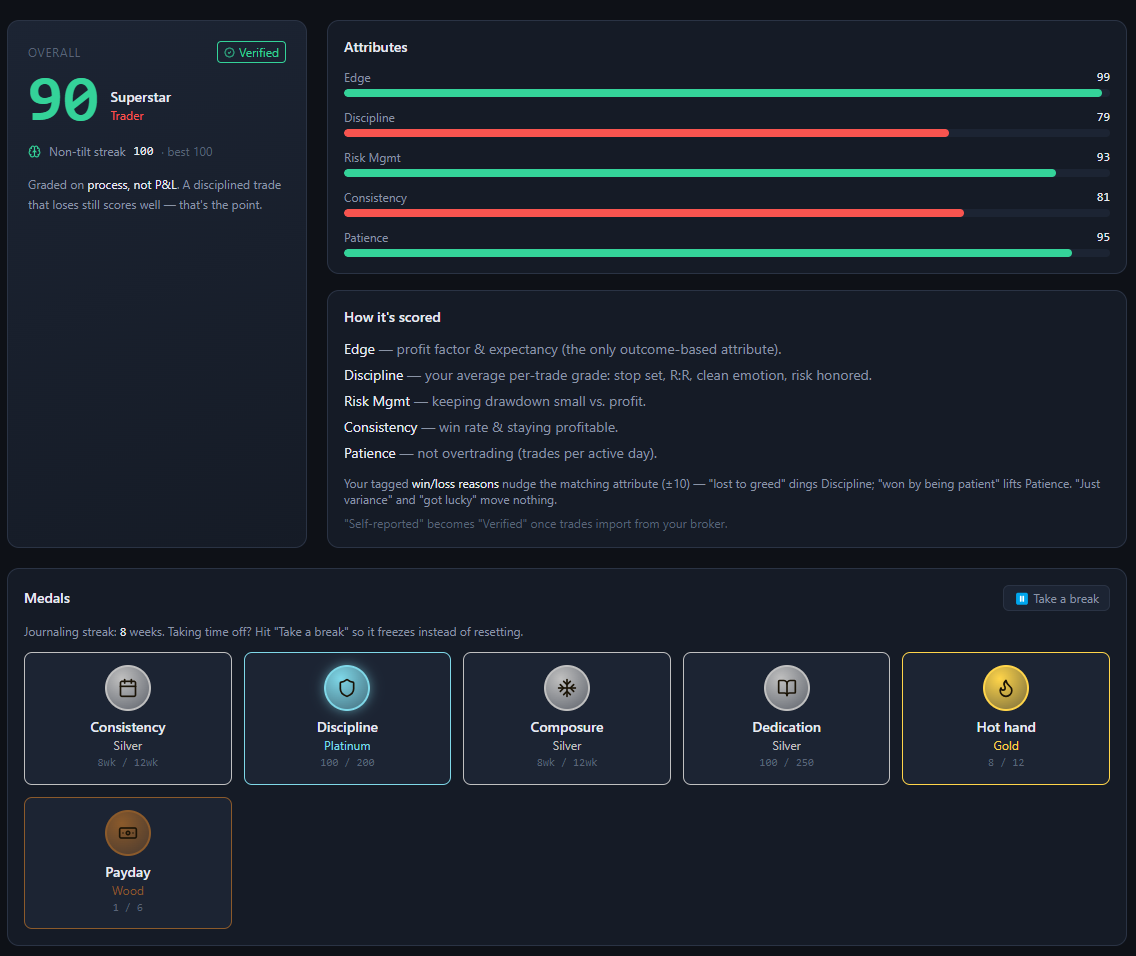
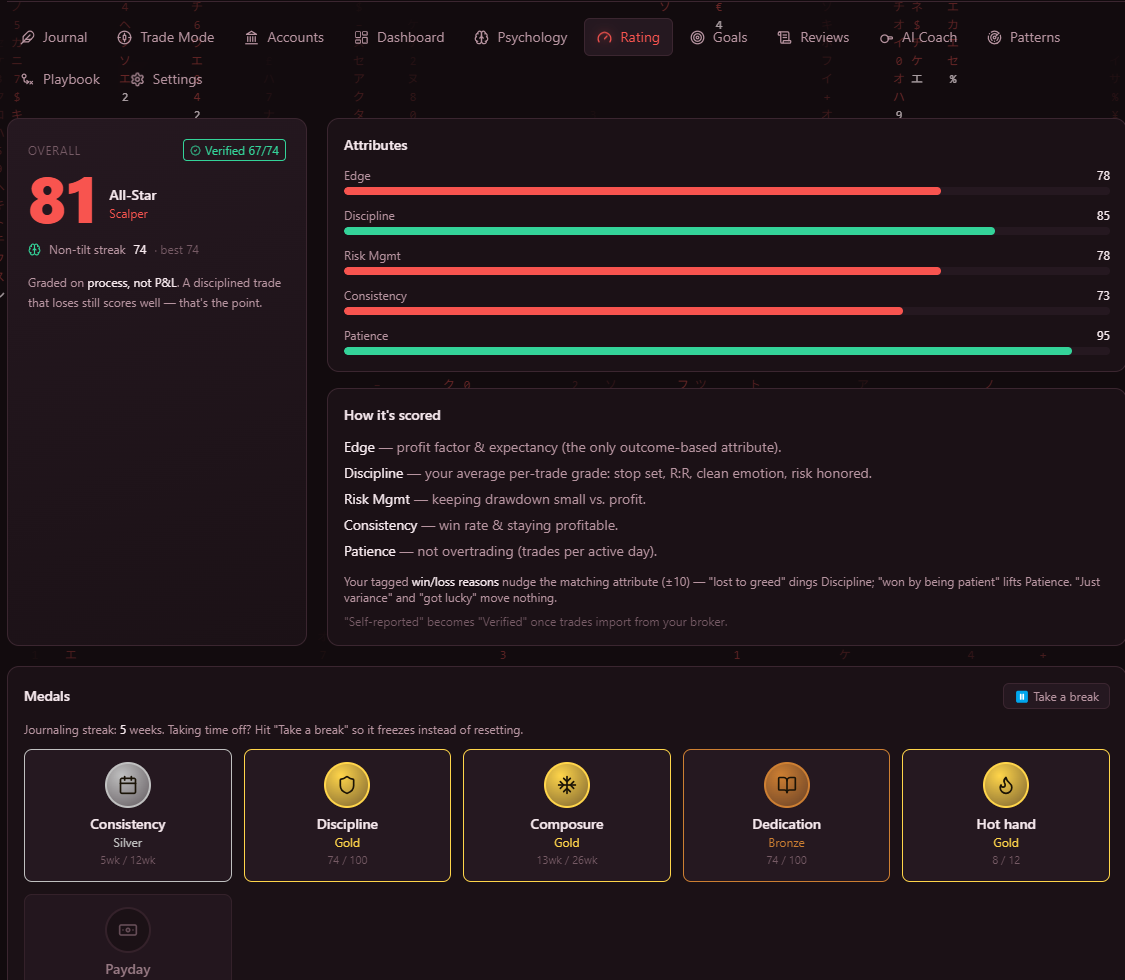
Refresh landing-page screenshots
New app screenshots: Dashboard hero plus Accounts (the live/personal account), AI Coach, Reviews and Trader rating gallery tiles. Removes the stale journal/prop-firm shots.

diff --git a/docs/index.html b/docs/index.html
@@ -183,7 +183,7 @@
     <div class="bar"><i></i><i></i><i></i><span class="t">TradeHelp — Dashboard</span></div>
     <div class="frame">
       <span class="ph">shots/dashboard.png</span>
-      <img src="shots/dashboard.png" alt="TradeHelp dashboard — net P&amp;L, win rate, a P&amp;L calendar and a gradient equity curve" loading="lazy" onload="this.parentNode.classList.add('has-img')" onerror="this.remove()" />
+      <img src="shots/dashboard.png" alt="TradeHelp dashboard — AI coach brief, net P&amp;L, win rate, profit factor, the leak finder and a P&amp;L calendar" loading="lazy" onload="this.parentNode.classList.add('has-img')" onerror="this.remove()" />
     </div>
   </figure>
 </div>
@@ -221,20 +221,20 @@
     <p class="lede">A focused dark desk that grades your process — here's what you actually work in.</p>
     <div class="shots-grid">
       <figure class="shot">
-        <div class="bar"><i></i><i></i><i></i><span class="t">Journal</span></div>
-        <div class="frame"><span class="ph">shots/journal.png</span><img src="shots/journal.png" alt="Journal — logging a trade beside the full searchable trade history" loading="lazy" onload="this.parentNode.classList.add('has-img')" onerror="this.remove()" /></div>
-      </figure>
-      <figure class="shot">
-        <div class="bar"><i></i><i></i><i></i><span class="t">Prop Firm</span></div>
-        <div class="frame"><span class="ph">shots/propfirm.png</span><img src="shots/propfirm.png" alt="Prop firm tracking — account cards with target and drawdown bars, plus payout log" loading="lazy" onload="this.parentNode.classList.add('has-img')" onerror="this.remove()" /></div>
-      </figure>
-      <figure class="shot">
-        <div class="bar"><i></i><i></i><i></i><span class="t">Trader rating</span></div>
-        <div class="frame"><span class="ph">shots/rating.png</span><img src="shots/rating.png" alt="Trader rating — process-graded attributes, achievements and tiered medals" loading="lazy" onload="this.parentNode.classList.add('has-img')" onerror="this.remove()" /></div>
+        <div class="bar"><i></i><i></i><i></i><span class="t">Accounts</span></div>
+        <div class="frame"><span class="ph">shots/accounts.png</span><img src="shots/accounts.png" alt="Accounts — live and prop-firm tracking with funded capital, balance, drawdown cushion and payouts" loading="lazy" onload="this.parentNode.classList.add('has-img')" onerror="this.remove()" /></div>
       </figure>
       <figure class="shot">
         <div class="bar"><i></i><i></i><i></i><span class="t">AI Coach</span></div>
-        <div class="frame"><span class="ph">shots/coach.png</span><img src="shots/coach.png" alt="AI coach — offline coaching that reads your real stats and recent trades" loading="lazy" onload="this.parentNode.classList.add('has-img')" onerror="this.remove()" /></div>
+        <div class="frame"><span class="ph">shots/coach.png</span><img src="shots/coach.png" alt="AI coach — offline coaching that reads your real stats and trades, running on your own machine" loading="lazy" onload="this.parentNode.classList.add('has-img')" onerror="this.remove()" /></div>
+      </figure>
+      <figure class="shot">
+        <div class="bar"><i></i><i></i><i></i><span class="t">Reviews</span></div>
+        <div class="frame"><span class="ph">shots/reviews.png</span><img src="shots/reviews.png" alt="Reviews — weekly to all-time performance with records, an equity curve and P&amp;L by setup" loading="lazy" onload="this.parentNode.classList.add('has-img')" onerror="this.remove()" /></div>
+      </figure>
+      <figure class="shot">
+        <div class="bar"><i></i><i></i><i></i><span class="t">Trader rating</span></div>
+        <div class="frame"><span class="ph">shots/rating.png</span><img src="shots/rating.png" alt="Trader rating — a 59–99 process score, graded attributes and tiered Bronze-to-Diamond medals" loading="lazy" onload="this.parentNode.classList.add('has-img')" onerror="this.remove()" /></div>
       </figure>
     </div>
   </div>

diff --git a/docs/shots/README.md b/docs/shots/README.md
@@ -4,16 +4,18 @@ Drop your app screenshots in this folder with these **exact** filenames. The
 landing page (`docs/index.html`) references them directly — once a file is here
 and committed, it appears automatically (and a click-to-zoom lightbox works).
 
-| Filename        | Used as            | Suggested shot                                  |
-|-----------------|--------------------|-------------------------------------------------|
-| `journal.png`   | Hero (below CTA)   | Journal tab — log form + trade history          |
-| `dashboard.png` | Gallery            | Dashboard — stats, calendar, equity curve       |
-| `propfirm.png`  | Gallery            | Prop Firm — account cards + payouts             |
-| `rating.png`    | Gallery            | Rating — attributes, medals                     |
-| `coach.png`     | Gallery            | AI Coach — chat                                 |
+| Filename        | Used as            | Suggested shot                                        |
+|-----------------|--------------------|-------------------------------------------------------|
+| `dashboard.png` | Hero (below CTA)   | Dashboard — coach brief, stats, leak finder, calendar |
+| `accounts.png`  | Gallery            | Accounts → Live — capital, balance, drawdown, payouts |
+| `coach.png`     | Gallery            | AI Coach — chat                                        |
+| `reviews.png`   | Gallery            | Reviews — records, equity curve, P&L by setup         |
+| `rating.png`    | Gallery            | Rating — process score, attributes, tiered medals     |
 
 Tips:
-- Capture the app maximized (~1440×900) in the dark theme for a consistent look.
+- Capture the app maximized (~1440×900) in the dark theme, with ONE consistent accent
+  color (gold matches the site best) so the gallery looks cohesive.
+- A calmer backdrop (constellation) reads cleaner in marketing shots than the busy ones.
 - PNG is fine; keep each under ~500 KB if you can (TinyPNG, or export at 1× not 2×).
 - Until a file exists the page shows a small labeled placeholder instead of a
   broken image, so it's safe to add them one at a time.